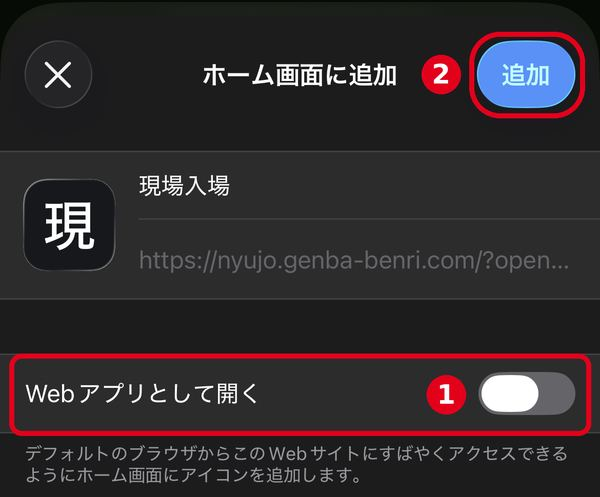
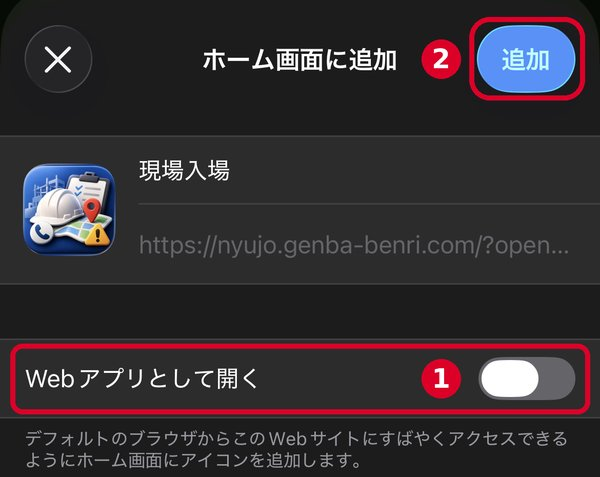
「Webアプリとして開く」の図を、新しいアイコンの写真に差し替えた（注意の枠と説明書の両方）。版61
Claude-Session: https://claude.ai/code/session_018EELiCH7TQGtCroJ6HaCEq

diff --git a/guide.html b/guide.html
@@ -36,7 +36,7 @@ img{display:block;margin:6px auto;border:1px solid #ccc;border-radius:8px;max-wi
 <div class="box">⚠ <b>「Webアプリとして開く」を必ず切ってください。</b>切らないと、LINEで届いた現場がアプリに入りません。</div>
 <div class="step"><div class="st"><span class="no">1</span>Safariでアプリを開く</div><p>LINEのお知らせのURLを押すと、Safariで開きます。</p></div>
 <div class="step"><div class="st"><span class="no">2</span>共有ボタン →「ホーム画面に追加」</div><p>画面の下の共有ボタン（四角から上に矢印のマーク）を押して、「ホーム画面に追加」。<span class='small'>見つからないときは右下の「…」の中にあります。</span></p></div>
-<div class="step"><div class="st"><span class="no">3</span>「Webアプリとして開く」を切る →「追加」</div><p>右のスイッチが<b>灰色（切れている）</b>か見る。緑なら押して灰色に（①）。それから右上の「追加」（②）。</p><img src="guide/5_toggle.jpg" loading="lazy" style="width:100%" alt=""></div>
+<div class="step"><div class="st"><span class="no">3</span>「Webアプリとして開く」を切る →「追加」</div><p>右のスイッチが<b>灰色（切れている）</b>か見る。緑なら押して灰色に（①）。それから右上の「追加」（②）。</p><img src="guide/5_toggle.jpg?v=2" loading="lazy" style="width:100%" alt=""></div>
 <div class="tip">これからは、ホーム画面の「現」のアイコンから開いてください。Safariの「履歴とWebサイトデータを消去」はしないでください（入れた現場が消えます）。</div></div>
 <div class="dev" data-dev="ios-other"><h3>iPhone（ChromeやEdgeで開いている人）</h3>
 <div class="box">⚠ <b>iPhoneは、Safariで置いてください。</b>LINEのリンクはSafariで開くので、ChromeやEdgeで置いたアプリには、届いた現場が入りません。</div>

diff --git a/webapptip.js b/webapptip.js
@@ -1,4 +1,5 @@
 // 版60：iPhoneで「Webアプリとして開く」を入れたままホーム画面に置いたアイコンから開いたときだけ、上に黄色の注意を出す。
+// 版61：直し方の図を、新しいアイコンの写真（ユーザーが撮り直した物）に差し替えた
 // 理由：そのアイコンはSafariと保存場所が別になり、LINEのリンク（Safariで開く）で入れた現場がアイコンからは見えない＝「消えた」に見える。
 // 見分け方：iPhone・iPadは、そのアイコンから開くと navigator.standalone が true になる（正しく置いたアイコン・Safari・Androidでは true にならない）。実機は未確認。
 (() => {
@@ -15,7 +16,7 @@
       "<li><b>Safari</b>で <b>nyujo.genba-benri.com</b> を開く</li>" +
       "<li>共有ボタン（四角から上に矢印）→「ホーム画面に追加」</li>" +
       "<li><b>「Webアプリとして開く」を灰色にする</b>（①）→「追加」（②）" +
-      "<img src=\"guide/5_toggle.jpg\" alt=\"「Webアプリとして開く」のスイッチを灰色にして、追加を押す\"></li>" +
+      "<img src=\"guide/5_toggle.jpg?v=2\" alt=\"「Webアプリとして開く」のスイッチを灰色にして、追加を押す\"></li>" +
       "</ol>" +
       "<span class=\"webAppTipSub\">※このアイコンの中で入れた現場は、置き直すと消えます。</span>";
     const header = document.querySelector("header");

diff --git a/index.html b/index.html
@@ -11,8 +11,8 @@
 <link rel="icon" type="image/png" sizes="192x192" href="icon-192.png?v=2">
 <link rel="icon" type="image/png" sizes="32x32" href="favicon-32.png?v=2">
 <link rel="stylesheet" href="style.css?v=38">
-<script src="line-escape.js?v=60"></script>
-<script src="webapptip.js?v=1"></script>
+<script src="line-escape.js?v=61"></script>
+<script src="webapptip.js?v=2"></script>
 </head>
 <body>
 <div id="listScreen">

diff --git a/line-escape.js b/line-escape.js
@@ -3,7 +3,7 @@
 // 2回目（付いているのにまだLINEの中）：同じ所を回らないよう開き直さず、赤い字で知らせる
 // 原因を調べる間だけ：画面の下に「版」と「開き方」を小さく出す（直ったら消す）
 (() => {
-  const VERSION = "60";
+  const VERSION = "61";
   const ua = navigator.userAgent;
   const isLine = /\bLine\//i.test(ua);
 
